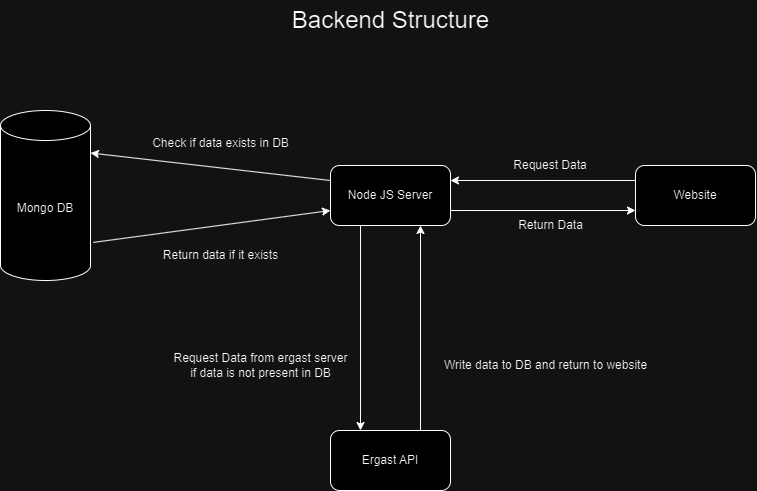
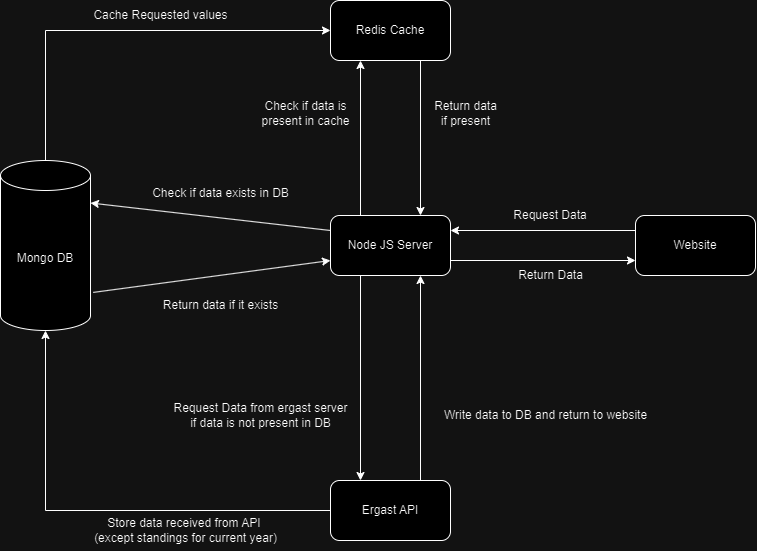
Added caching

diff --git a/controllers/index.js b/controllers/index.js
@@ -1,9 +1,10 @@
 import { prisma } from "../utils/prismaClient.js"
 import ErgastClient from "ergast-client"
 import dotenv from "dotenv"
-dotenv.config()
 import cloudinary from "../utils/cloudinary.cjs";
 import { v4 } from "uuid";
+import { redisClient } from "../utils/redis.js";
+dotenv.config()
 
 // Initializing Ergast Client
 const ergast = new ErgastClient();
@@ -51,6 +52,9 @@ export const getDrivers = async (req, res) => {
             })
 
         }
+
+        // 1 hour since this data is in DB and don't need to call API
+        await redisClient.setEx(`drivers-${req?.body?.year}`, 60 * 60, JSON.stringify({ drivers: { year: req?.body?.year, drivers } }))
 
         // Return the year and the drivers
         return res.status(200).send({ drivers: { year: req?.body?.year, drivers } })
@@ -108,6 +112,9 @@ export const getConstructors = async (req, res) => {
                 }
             })
         }
+
+        // 1 hour since this data is in DB and don't need to call API
+        await redisClient.setEx(`constructors-${req?.body?.year}`, 60 * 60, JSON.stringify({ constructors: { year: req?.body?.year, constructors } }))
 
         // Return the year and the constructors
         return res.status(200).send({ constructors: { year: req?.body?.year, constructors } })
@@ -167,6 +174,9 @@ export const getCircuits = async (req, res) => {
             })
         }
 
+        // 1 hour since this data is in DB and don't need to call API
+        await redisClient.setEx(`circuits-${req?.body?.year}`, 60 * 60, JSON.stringify({ circuits: { year: req?.body?.year, circuits } }))
+
         // Return the year and the circuits
         return res.status(200).send({ circuits: { year: req?.body?.year, circuits: circuits } })
 
@@ -224,6 +234,9 @@ export const getSchedule = async (req, res) => {
                 }
             })
         }
+
+        // 1 hour since this data is in DB and don't need to call API
+        await redisClient.setEx(`schedule-${req?.body?.year}`, 60 * 60, JSON.stringify({ schedule: { year: req?.body?.year, schedule } }))
 
         // Return the schedule and the year
         return res.status(200).send({ schedule: { year: req?.body?.year, schedule: schedule } })
@@ -284,8 +297,11 @@ export const getDriverStandings = async (req, res) => {
                 })
             }
 
+            // 1 hour since this data is in DB and don't need to call API
+            await redisClient.setEx(`drivers-standings-${req?.body?.year}`, 60 * 60, JSON.stringify({ standings: { year: req?.body?.year, standings: { standings } } }))
+
             // Return the year and the standings
-            return res.status(200).send({ standings: { year: req?.body?.year, standings: standings } })
+            return res.status(200).send({ standings: { year: req?.body?.year, standings: { standings } } })
         }
         // For current year, standings cannot be stored as they can change
         else {
@@ -302,6 +318,9 @@ export const getDriverStandings = async (req, res) => {
                     }
                 });
             })
+
+            // 12 hours as this data cannot be persisted in DB and thus cached longer (doesn't change frequently but called a lot)
+            await redisClient.setEx(`drivers-standings-${req?.body?.year}`, 60 * 60 * 12, JSON.stringify({ standings: { year: req?.body?.year, standings: { standings } } }))
 
             return res.status(200).send({ standings: { year: req?.body?.year, standings: { standings } } })
         }
@@ -365,6 +384,10 @@ export const getConstructorStandings = async (req, res) => {
 
             }
 
+            // 1 hour since this data is in DB and don't need to call API
+            await redisClient.setEx(`constructors-standings-${req?.body?.year}`, 60 * 60, JSON.stringify({ standings: { year: req?.body?.year, standings: { standings } } }))
+
+
             // Return the year and the standings
             return res.status(200).send({ standings: { year: req?.body?.year, standings: standings } })
         } else {
@@ -381,6 +404,10 @@ export const getConstructorStandings = async (req, res) => {
                     }
                 });
             })
+
+            // 12 hours as this data cannot be persisted in DB and thus cached longer (doesn't change frequently but called a lot)
+            await redisClient.setEx(`constructors-standings-${req?.body?.year}`, 60 * 60 * 12, JSON.stringify({ standings: { year: req?.body?.year, standings: { standings } } }))
+
 
             return res.status(200).send({ standings: { year: req?.body?.year, standings: { standings } } })
         }
@@ -461,6 +488,10 @@ export const getRaceResult = async (req, res) => {
 
         }
 
+        // 1 hour since this data is in DB and don't need to call API
+        await redisClient.setEx(`race-result-${req?.body?.year}-${req?.body?.round}`, 60 * 60, JSON.stringify({ result: { year: req?.body?.year, round: req?.body?.round, result: result, race } }))
+
+
         // Return the year and the result
         return res.status(200).send({ result: { year: req?.body?.year, round: req?.body?.round, result: result, race } })
 
@@ -534,6 +565,10 @@ export const getQualifyingResult = async (req, res) => {
 
 
         }
+
+
+        // 1 hour since this data is in DB and don't need to call API
+        await redisClient.setEx(`qualifying-result-${req?.body?.year}-${req?.body?.round}`, 60 * 60, JSON.stringify({ result: { year: req?.body?.year, round: req?.body?.round, result: result, race } }))
 
         // Return the result and the year
         return res.status(200).send({ result: { year: req?.body?.year, round: req?.body?.round, result: result, race } })

diff --git a/middleware/index.js b/middleware/index.js
@@ -1,0 +1,57 @@
+import { redisClient } from "../utils/redis.js";
+
+const cacheMiddleware = async (req, res, next) => {
+    try {
+        let path = String(req?.originalUrl).split("/")[3]
+
+        let result
+
+        // If drivers info is requested
+        if (path == "getDrivers") {
+            result = await redisClient.get(`drivers-${req?.body?.year}`)
+        }
+        // If constructors info is requested
+        else if (path == "getConstructors") {
+            result = await redisClient.get(`constructors-${req?.body?.year}`)
+        }
+        // If circuits info is requested
+        else if (path == "getCircuits") {
+            result = await redisClient.get(`circuits-${req?.body?.year}`)
+        }
+        // If schedule info is requested
+        else if (path == "getSchedule") {
+            result = await redisClient.get(`schedule-${req?.body?.year}`)
+        }
+        // If drivers standings info is requested
+        else if (path == "getDriverStandings") {
+            result = await redisClient.get(`drivers-standings-${req?.body?.year}`)
+        }
+        // If constructors standings info is requested
+        else if (path == "getConstructorStandings") {
+            result = await redisClient.get(`constructors-standings-${req?.body?.year}`)
+        }
+        // If race result is requested
+        else if (path == "getRaceResult") {
+            result = await redisClient.get(`race-result-${req?.body?.year}-${req?.body?.round}`)
+        }
+        // If qualifying result is requested
+        else if (path == "getQualifyingResult") {
+            result = await redisClient.get(`qualifying-result-${req?.body?.year}-${req?.body?.round}`)
+        }
+
+        // If value was present, convert to JSON and send result
+        if (result) {
+            console.log("From Cache")
+            return res.status(200).send(JSON.parse(result))
+        } else {
+            next();
+        }
+
+
+    } catch (error) {
+        console.error("Error fetching data from Redis:", error);
+        next(); // Proceed to the next middleware in case of error
+    }
+};
+
+export default cacheMiddleware

diff --git a/index.js b/index.js
@@ -10,6 +10,10 @@ dotenv.config()
 
 import routes from "./routes/index.js"
 
+// Importing Middleware ----------------------------------------------------------------------------------------------
+
+import middleware from "./middleware/index.js"
+
 // Initializing Server -------------------------------------------------------------------------------------------
 
 
@@ -58,7 +62,7 @@ app.get("/", (req, res) => {
 
 // Routes -----------------------------------------------------------------------------------------
 
-app.use("/api/v1", routes)
+app.use("/api/v1", middleware, routes)
 
 // Listening on PORT -------------------------------------------------------------------------------------------
 

diff --git a/utils/redis.js b/utils/redis.js
@@ -1,0 +1,11 @@
+import { createClient } from 'redis';
+
+export const redisClient = createClient({
+    password: process.env.REDIS_PASSWORD,
+    socket: {
+        host: process.env.REDIS_HOST,
+        port: process.env.REDIS_PORT
+    }
+});
+
+await redisClient.connect()

diff --git a/Readme.md b/Readme.md
@@ -9,6 +9,7 @@
     <ul>
     <li>Express - for creating a web server</li>
     <li>Prisma - ORM to abstract the DB layer</li>
+    <li>Redis - to cache data</li>
     <li>CORS - for Cross origin requests</li>
     <li>Helmet - for security</li>
     </ul>
@@ -17,7 +18,7 @@
 <li>To run the project : 
     <ol>
     <li>npm install</li>
-    <li>Create an .env file and add the database link + port</li>
+    <li>Create an .env file and add the database link + port + redis info</li>
     <li>npx prisma generate</li>
     <li>npm run dev</li>
     </ol>
@@ -59,6 +60,18 @@ API Routes: (API only has data till 2024. All routes are POST routes.)
     <tr>
     <td>/api/v1/getQualifyingResult</td>
     <td>  To get the qualifying result for a certain round. Pass year and round in request body.</td>
+    </tr>
+    <tr>
+    <td>/api/v1/create-post</td>
+    <td>To create a new article.</td>
+    </tr>
+    <tr>
+    <td>/api/v1/get-recent-posts</td>
+    <td>To get recent posts in a paginated format (4 at a time).</td>
+    </tr>
+    <tr>
+    <td>/api/v1/get-post</td>
+    <td>To get a specific post.</td>
     </tr>
     </table>
 </p>
